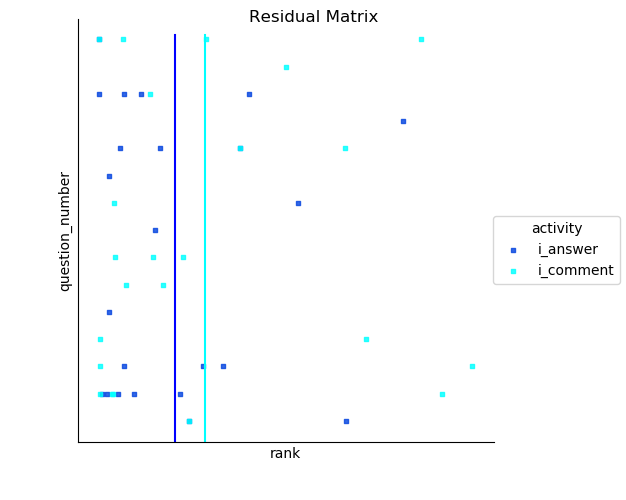
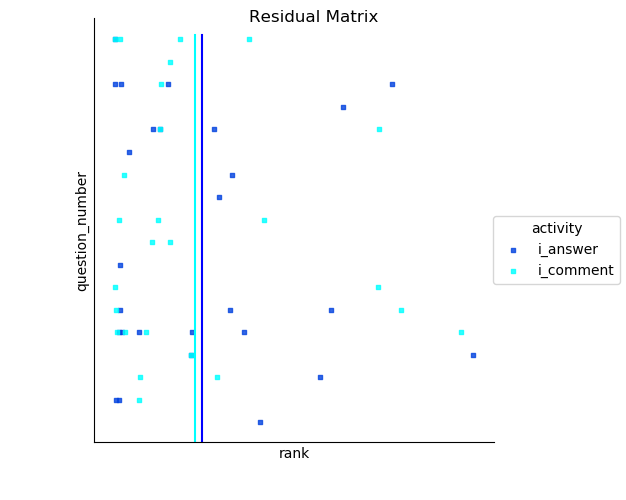
got user expterise to work

diff --git a/source/engine/engine.py b/source/engine/engine.py
@@ -28,29 +28,20 @@ class Residuals:
         observed = self.y.iloc[y_index]
         predicted = {int(score_matrix[i, 0]): {'index': i, 'score': score_matrix[i, -1]} for i in range(score_matrix.shape[0])}
 
-        # TODO: ensure all users have proper indexing
-        # index_answer = [predicted[user]['index'] for user in observed['answerers']]
-        # index_comment = [predicted[user]['index'] for user in observed['commentors']]
-
-        index_answer, index_comment = [], []
-        for user in eval(observed.answerers):
-            try:
-                index_answer.append(predicted[user]['index'])
-            except KeyError:
-                logging.debug(f'Missing answerer user: {user}')
-
-        for user in eval(observed.commenters):
-            try:
-                index_comment.append(predicted[user]['index'])
-            except KeyError:
-                logging.debug(f'Missing commenter user: {user}')
+        index_answer = [predicted[user]['index'] for user in eval(observed.answerers)]
+        index_comment = [predicted[user]['index'] for user in eval(observed.commenters)]
+        # index_editor = [predicted[user]['index'] for user in eval(observed.editers)]
+        # index_favorite = [predicted[user]['index'] for user in eval(observed.favorite)]
 
         self.error_per_question['answer'].append(sum(index_answer))
         self.error_per_question['comment'].append(sum(index_comment))
+        # self.error_per_question['edit'].append(sum(index_editor))
+        # self.error_per_question['favorite'].append(sum(index_favorite))
 
-        # flatten the results for ease of implementation
         self.raw_residuals_per_question[y_index]['i_answer'] = index_answer
         self.raw_residuals_per_question[y_index]['i_comment'] = index_comment
+        # self.raw_residuals_per_question[y_index]['i_editor'] = index_editor
+        # self.raw_residuals_per_question[y_index]['i_favorite'] = index_favorite
 
     def get_total_error(self):
         d = self.flatted_errors()
@@ -98,9 +89,10 @@ class Residuals:
         summary_marker = np.arange(0, 1 + .1, .1)
         for activity, sub_df in t_df.groupby('activity'):
             # normalize the positions where the thresholds are, in order to observe relative position
-            sub_df['position'] = np.array(sub_df['position'].values) / max(sub_df['position'].values)
+            _max_position = max(sub_df['capture_accuracy'].values)
+            sub_df['capture_accuracy'] = sub_df['capture_accuracy'].apply(lambda x: x/_max_position)
             basic_increment_index = np.where(np.isin(np.array(sub_df['t']), summary_marker))
-            summary_threshold = np.array(sub_df['position'])[basic_increment_index]
+            summary_threshold = np.array(sub_df['capture_accuracy'])[basic_increment_index]
             threshold_summary[activity] = {f'{round(t*100, 1)}%': t_error
                                            for t, t_error in zip(summary_marker, summary_threshold)}
         return threshold_summary
@@ -115,16 +107,17 @@ class Engine:
     t1 = time.time()
 
     # load questions and all user activities
-    X = pd.read_csv(BASE_PATH + 'X_train.csv').head(15)
-    y = pd.read_csv(BASE_PATH + 'y_train.csv').head(15)
+    X = pd.read_csv(BASE_PATH + 'X_train.csv').head(18)
+    y = pd.read_csv(BASE_PATH + 'y_train.csv').head(18)
     X['CreationDate'] = pd.to_datetime(X['CreationDate'], format="%Y-%m-%dT%H:%M:%S")
 
     # load engineered features
     user_availability = UserAvailability()
     user_profile = BasicProfile()
+    user_expertise = UserExpertise()
+
     # todo: ignore these for now, integrate them later once everything works
     # tag_network = TagNetwork()
-    # user_expertise = UserExpertise()
 
     # load all users list (order does not matter)
     with open(BASE_PATH + 'meta/users_list.p', 'rb') as fp:
@@ -151,13 +144,12 @@ class Engine:
 
         # iterate through all questions
         bar = progressbar.ProgressBar()
-
         for index, row in bar(Engine.X.iterrows()):
             question_score_matrix = Engine._rank_question(row, copy(matrix_init), w)
             self.residuals.compute_and_store_residuals(question_score_matrix, index)
 
         t2 = time.time()
-        logging.info(f'Ranking all questions computation finished in {(t2 - t1)/60} minutes.'
+        logging.info(f'Ranking all questions computation finished in {(t2 - t1)/60} minutes.\n'
                      f'With an average time of {(t2 - t1)/len(Engine.X)} seconds per question.')
         if not log_disabled:
             logging.info(self.residuals.get_summarize_statistics(len(Engine.unique_users_list)))
@@ -186,10 +178,9 @@ class Engine:
     def _compute_feature_row_for_user(user_id, x_row):
         # todo: add user expertise
         user_avail = Engine.user_availability.get_user_availability_probability(user_id, x_row.CreationDate.hour)
-        # user_expertise = Engine.user_expertise.get_user_sum_expertise(user_id, x_row['Tags'].split())
+        user_expertise = Engine.user_expertise.get_user_sum_expertise(user_id, x_row['Tags'].split())
         user_basic_profile = Engine.user_profile.get_all_measureable_features(user_id)
-        # [user_expertise]
-        return [user_avail] + user_basic_profile
+        return [user_avail] + user_basic_profile + [user_expertise]
 
     @staticmethod
     def _sort_matrix_by_column(M, i_column, ascending=True):

diff --git a/source/engine/visuals.py b/source/engine/visuals.py
@@ -12,7 +12,8 @@ class ResidualPlots:
     @staticmethod
     def _build_residual_dataframe(observed_ranks):
         df = pd.DataFrame(ResidualPlots.__flatten_residual_dictionary(observed_ranks))
-        df['rank'] = np.array(df['rank'].values) / max(df['rank'].values)
+        _max_rank = max(df['rank'].values)
+        df['rank'] = df['rank'].apply(lambda x: x / _max_rank)
         return df
 
     @staticmethod
@@ -68,13 +69,13 @@ class ResidualPlots:
             for threshold in np.arange(0, 1 + .01, .01):
                 threshold_error_by_activity.append({'activity': activity,
                                                     't': threshold,
-                                                    'position': find_nearest(sorted_ranks, threshold)})
+                                                    'capture_accuracy': find_nearest(sorted_ranks, threshold) / len(sorted_ranks)})
         return pd.DataFrame(threshold_error_by_activity)
 
     @staticmethod
     def plot_error_by_threshold(raw_residuals, save_path):
         threshold_error_by_activity_df = ResidualPlots.build_threshold_dataframe(raw_residuals)
-        sns.lmplot('t', 'position', data=threshold_error_by_activity_df, hue='activity', fit_reg=False,
+        sns.lmplot('t', 'capture_accuracy', data=threshold_error_by_activity_df, hue='activity', fit_reg=False,
                    palette=ResidualPlots.col_list_palette, markers='.')
         plt.gcf().suptitle('Threshold Accuracy by User Activity')
         plt.savefig(save_path)

diff --git a/source/engine/test.py b/source/engine/test.py
@@ -89,18 +89,27 @@ def set_up_log_files(name):
 
 '''
 Current Feature Summary:
-  BasicProfile (4):
-    - reputation
-    - views
-    - up votes
-    - down votes
-  UserExpertise (1) ignored for now
-  UserAvailability (1)
+    BasicProfile (4):
+        - reputation
+        - views
+        - up votes
+        - down votes
+    UserExpertise (1) 
+    UserAvailability (1)
+
+Remaining Features:
+    Indicator Network
+    
+Post Features and Residual Analysis:
+    Tag Network
+    User Similarity Network
+    Similiar Questions Network
+    PostLinks
 '''
 
 if __name__ == '__main__':
     set_up_log_files('run.log')
-    t = Test(5)
+    t = Test(6)
     # t.basic_tests()
     t.plot_tests()
 

diff --git a/source/engine/features.py b/source/engine/features.py
@@ -60,7 +60,8 @@ class UserExpertise(Feature):
                 a = user_tag_expertise[tag].get('n_answers', 0.0)
                 b = user_tag_expertise[tag].get('n_comments', 0.0)
                 c = user_tag_expertise[tag].get('n_questions', 0.0)
-                return a + b + c
+                # note the comments are purposefully given less weight
+                return a + b/2 + c
         except KeyError as e:
             print(f'user_id {user_id} was not found.', e)
             raise
